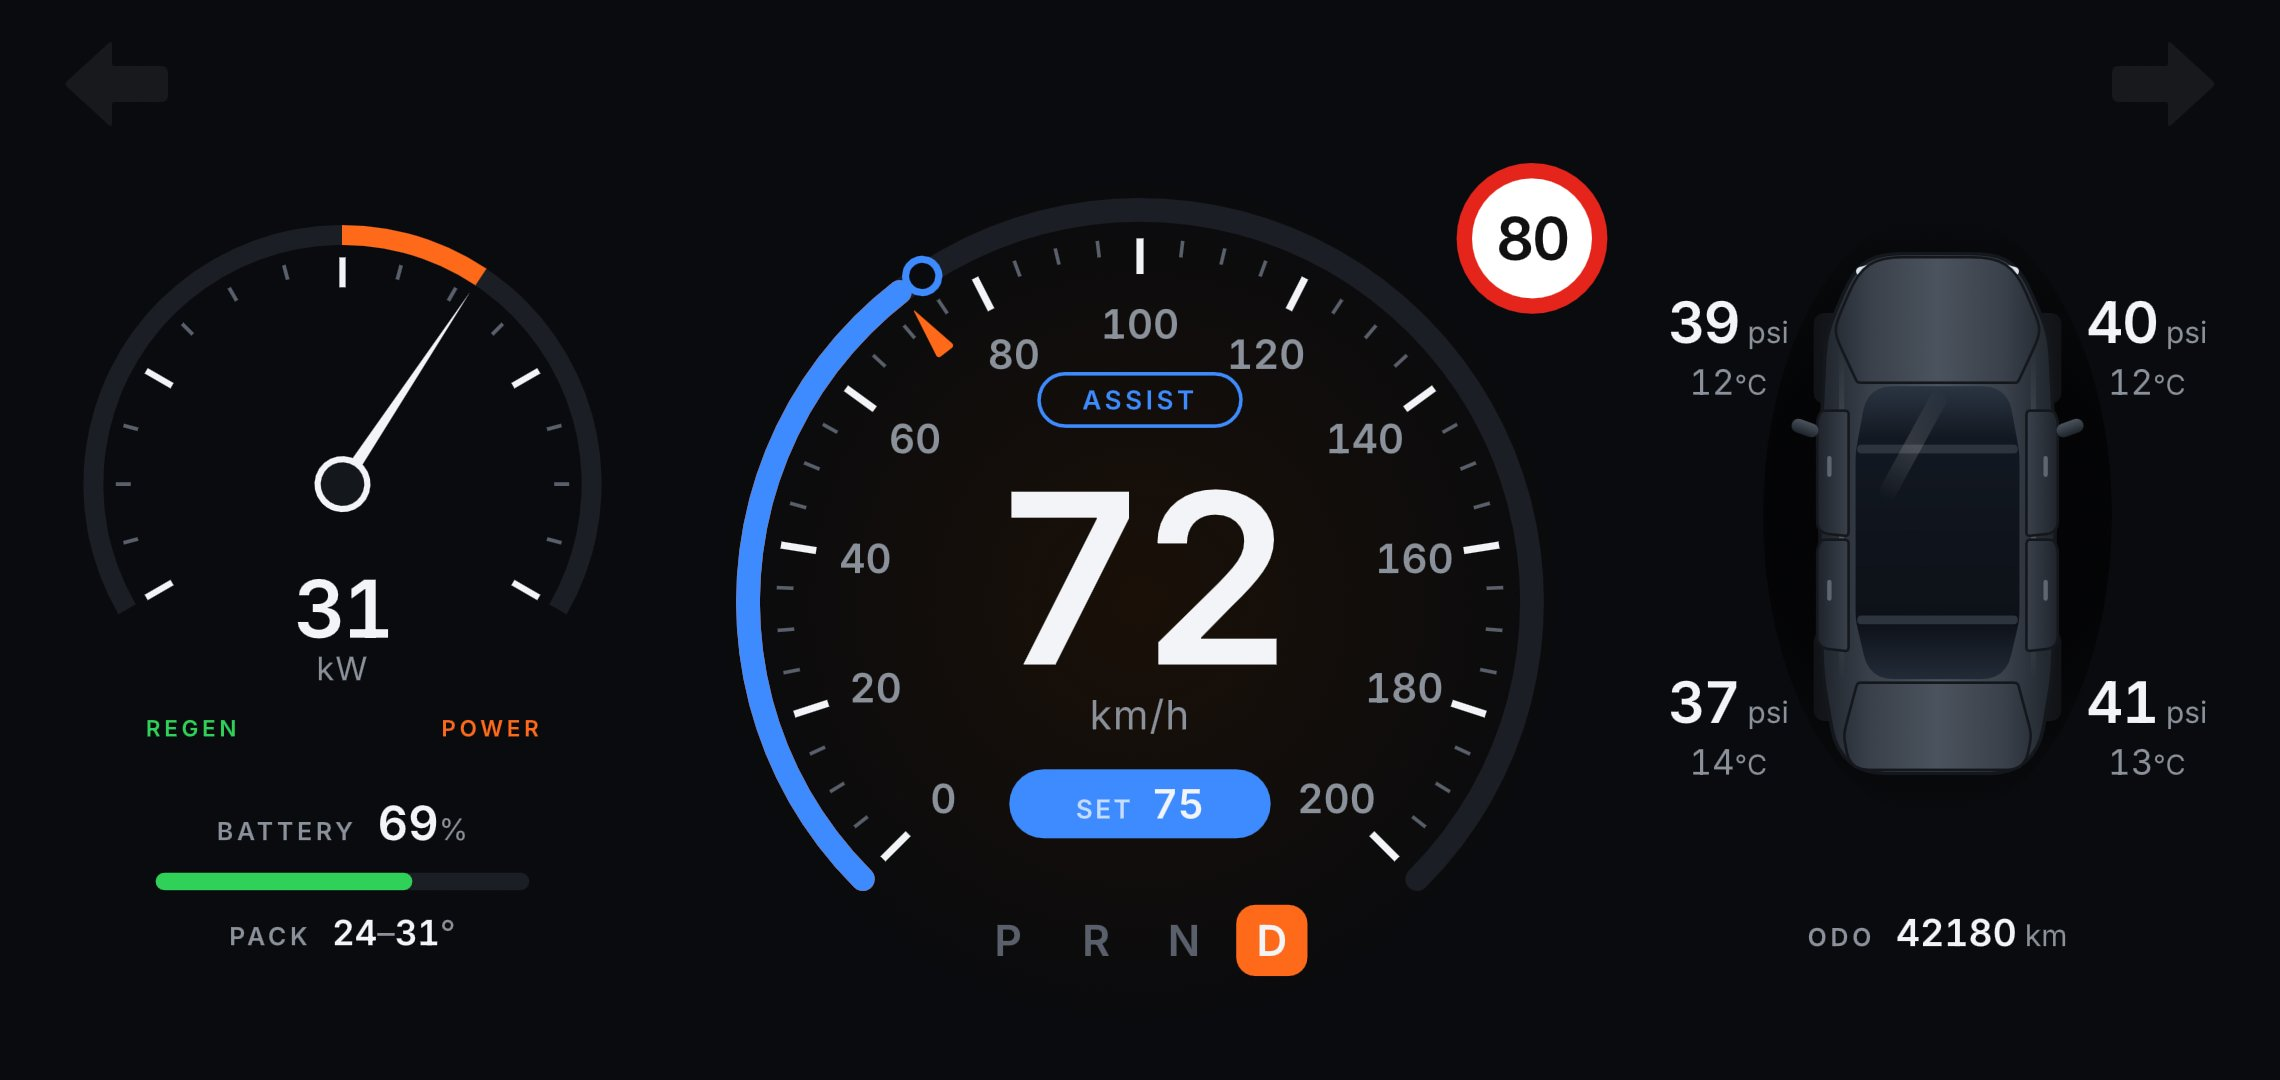
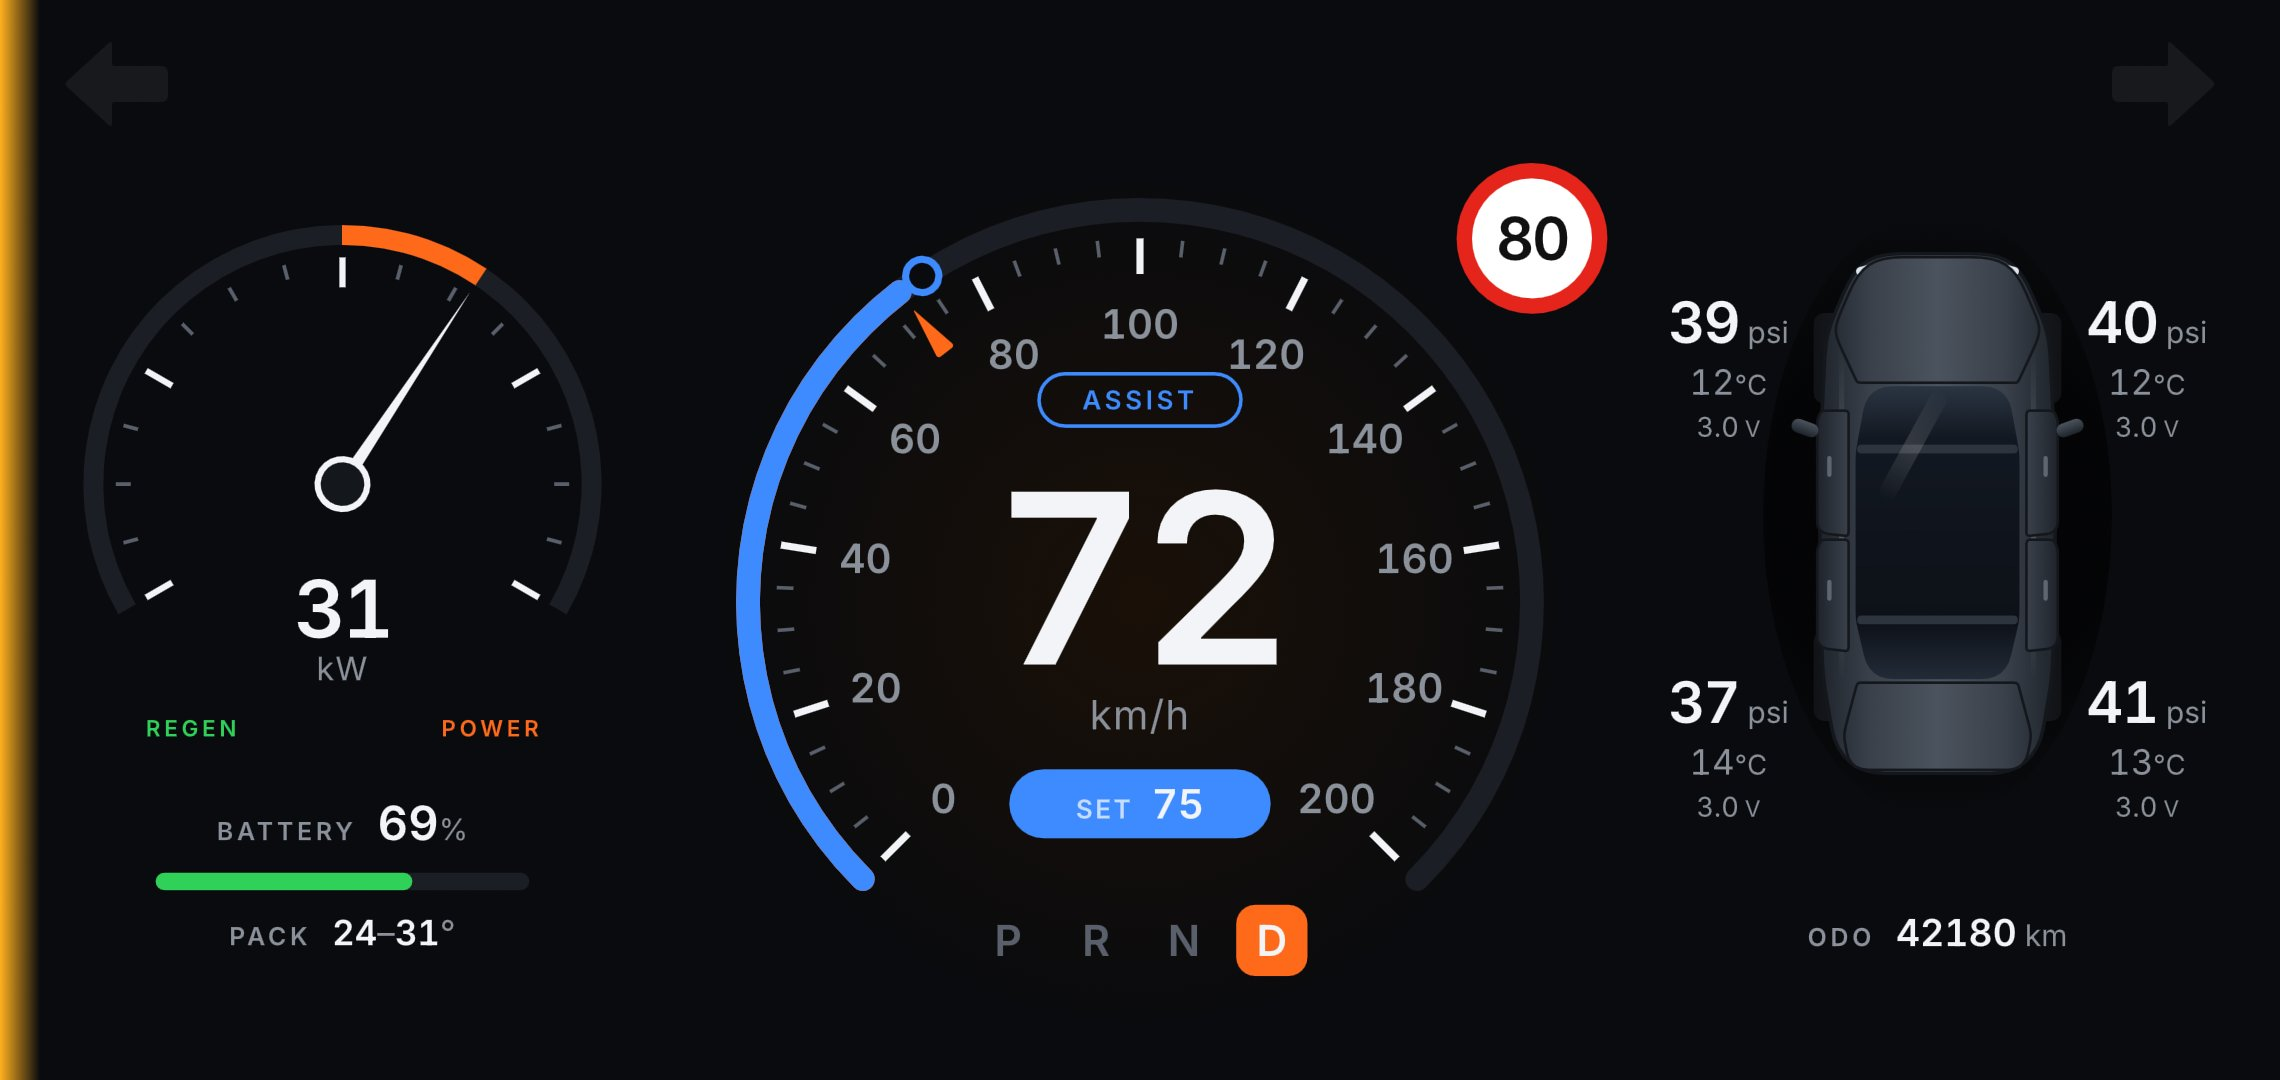
dash-sport: trunk lid follows the liftgate angle; TPMS battery per wheel; demo doors
- Trunk lid scaleY = max(trunkPosition / 95, trunkOpen * 0.15), eased: the
  powered liftgate angle drives the fold; an unlatched trunk with no angle
  shows ajar. The amber highlight still follows trunkOpen.
- A third line under each wheel shows the sensor battery (tpmsBatt*, V),
  hidden while there is no reading.
- View model: trunkPosition, tpmsBatt{FL,FR,RL,RR}; converter Batt Known.
- Demo data (Android and iOS): while stopped at the light the doors, frunk
  and trunk open one after another (trunkPosition 85 while the trunk is
  open), and the sensors report about 3 V.
- preview.jpg re-rendered.

dash_sport.riv is not rebuilt in this commit: rive 1.9.1 dropped --once
and --publish needs a login. Rebuilt in the next commit.

Changed region(s): [[0.0, 0.0, 0.0311, 1.0], [0.9342, 0.7333, 0.9654, 0.7639], [0.7474, 0.7333, 0.7785, 0.7639]]

diff --git a/dashpilot-android/app/src/main/java/com/softwiredtech/dashpilot/datasource/DemoDataSource.kt b/dashpilot-android/app/src/main/java/com/softwiredtech/dashpilot/datasource/DemoDataSource.kt
@@ -95,6 +95,11 @@ class DemoDataSource : IDataSource {
                 }
             }
 
+            // While stopped at the light: FL, FR, RL, RR, frunk, trunk open one after another.
+            val opening = if (phase >= APPROACH_END && phase < STOPPED_END)
+                ((phase - APPROACH_END) / (STOPPED_END - APPROACH_END) * 6).toInt() else -1
+            fun open(i: Int) = if (opening == i) 1f else 0f
+
             val packVoltage = (380 + sin(t * 0.2) * 5).toFloat()
             val packCurrent = if (braking) -speed * 1.2f else speed * 0.4f
             val kw = packVoltage * packCurrent / 1000
@@ -113,6 +118,14 @@ class DemoDataSource : IDataSource {
                 fusedSpeedLimit = LIMITS[lap % LIMITS.size],
                 stopLineDist = stopLine,
                 trafficLightColor = light,
+                anyDoorOpen = if (opening in 0..3) 1f else 0f,
+                doorOpenFL = open(0),
+                doorOpenFR = open(1),
+                doorOpenRL = open(2),
+                doorOpenRR = open(3),
+                frunkOpen = open(4),
+                trunkOpen = open(5),
+                trunkPosition = if (opening == 5) 85f else 0f,
                 buckleStatus = 1f,
                 accSetSpeed = cruise(t) + 5,
                 fullPackEnergy = 75f,
@@ -132,6 +145,10 @@ class DemoDataSource : IDataSource {
                 tpmsTempFR = 12f,
                 tpmsTempRL = 14f,
                 tpmsTempRR = 13f,
+                tpmsBattFL = 2.99f,
+                tpmsBattFR = 2.98f,
+                tpmsBattRL = 2.99f,
+                tpmsBattRR = 2.99f,
                 odometer = (42000 + t * 0.01).toFloat(),
                 acTemp = 22f,
                 acTempRight = 21f,

diff --git a/dashpilot-ios/dashpilot/DataSource/DemoDataSource.swift b/dashpilot-ios/dashpilot/DataSource/DemoDataSource.swift
@@ -135,6 +135,19 @@ final class DemoDataSource: IDataSource {
 
         s.accSetSpeed = cruiseSpeed(at: t) + 5
 
+        // While stopped at the light: FL, FR, RL, RR, frunk, trunk open one after another.
+        let opening = phase >= approachEnd && phase < stoppedEnd
+            ? Int((phase - approachEnd) / (stoppedEnd - approachEnd) * 6) : -1
+        func open(_ i: Int) -> Float { opening == i ? 1 : 0 }
+        s.anyDoorOpen = (0...3).contains(opening) ? 1 : 0
+        s.doorOpenFL = open(0)
+        s.doorOpenFR = open(1)
+        s.doorOpenRL = open(2)
+        s.doorOpenRR = open(3)
+        s.frunkOpen = open(4)
+        s.trunkOpen = open(5)
+        s.trunkPosition = opening == 5 ? 85 : 0
+
         s.leftBlindSpot = t.truncatingRemainder(dividingBy: 23) < 3 ? 1 : 0
         s.rightBlindSpot = t.truncatingRemainder(dividingBy: 29) < 3 ? 1 : 0
 
@@ -159,6 +172,10 @@ final class DemoDataSource: IDataSource {
         s.tpmsTempFR = 12
         s.tpmsTempRL = 14
         s.tpmsTempRR = 13
+        s.tpmsBattFL = 2.99
+        s.tpmsBattFR = 2.98
+        s.tpmsBattRL = 2.99
+        s.tpmsBattRR = 2.99
         s.acTemp = 22
         s.acTempRight = 21
         s.hvacFanLevel = 11
